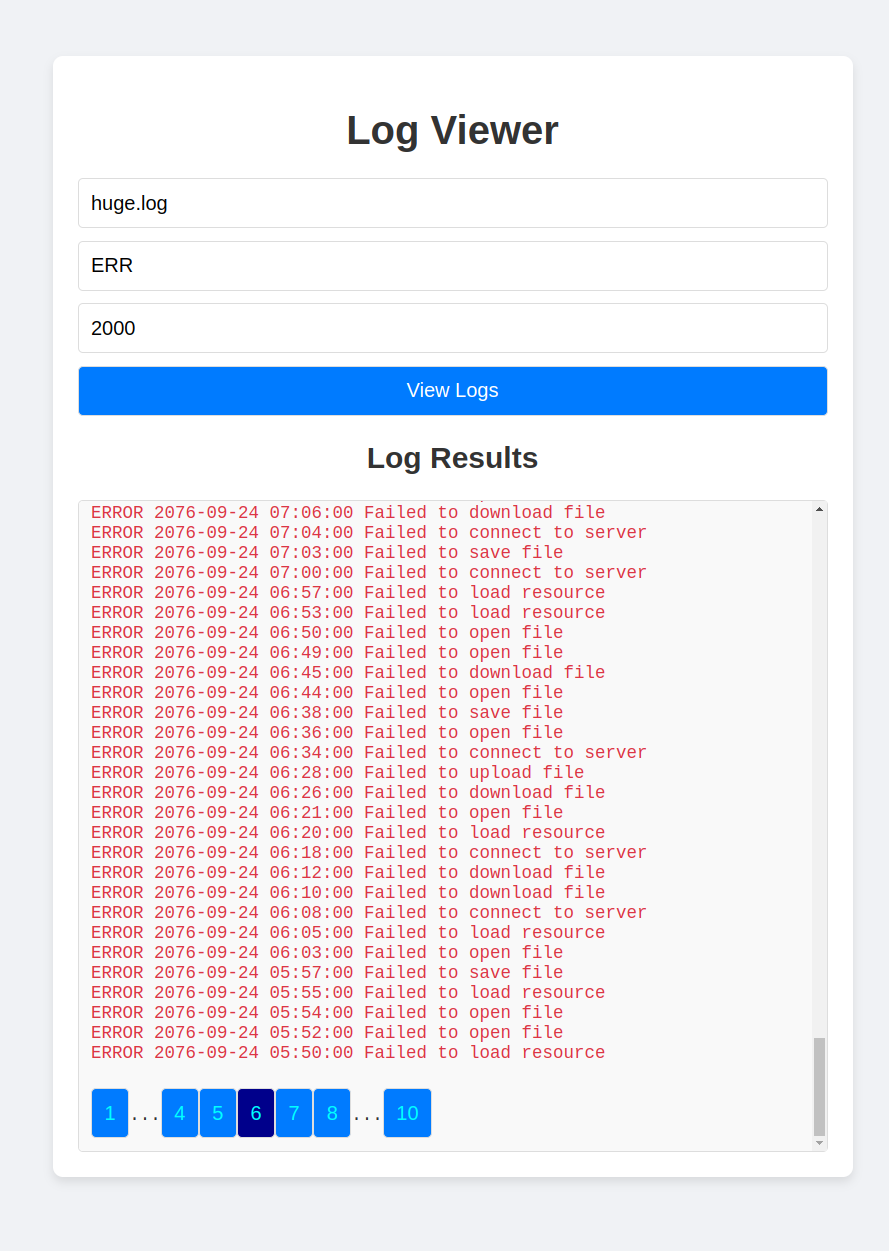
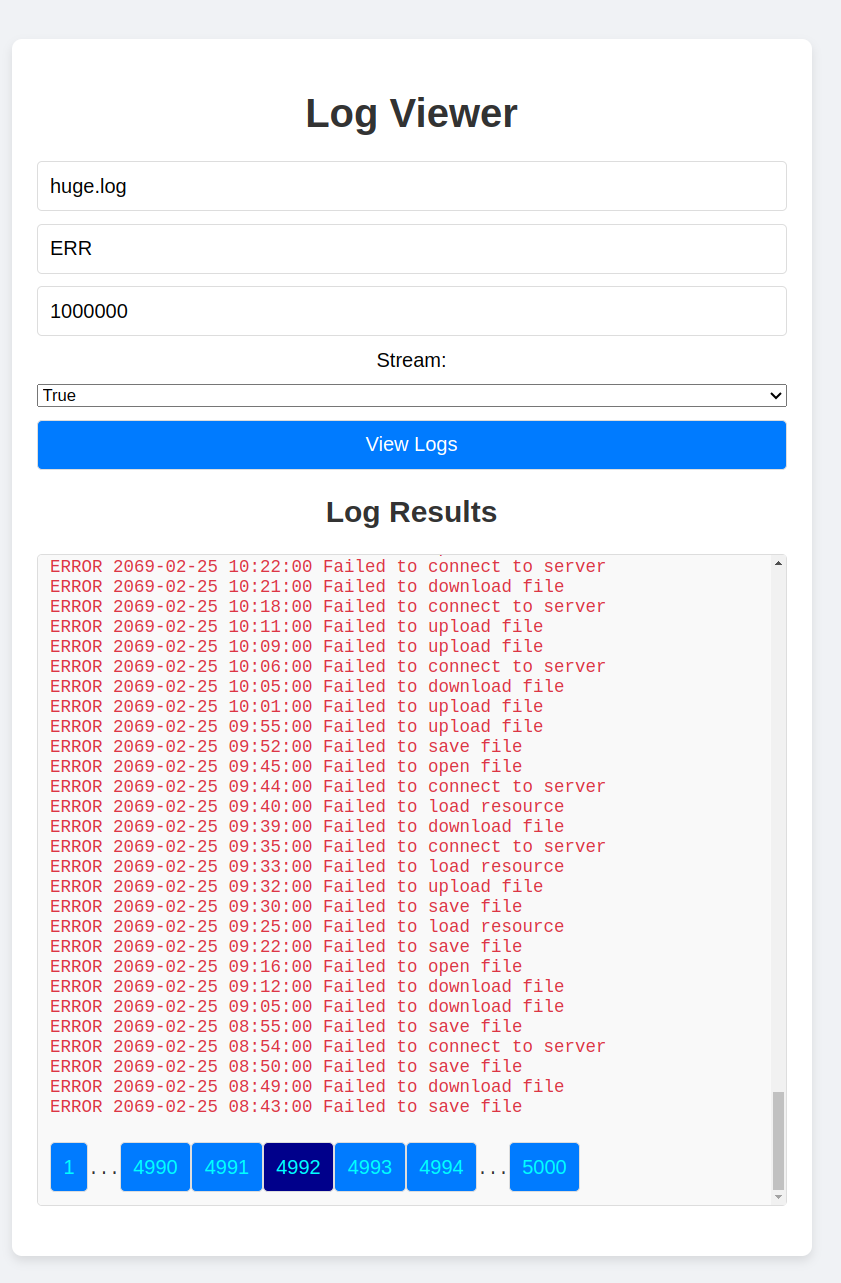
first version readme upgrade (#11)

Changed region(s): [[0.0309, 0.1247, 0.9584, 0.9664], [0.3401, 0.0624, 0.6183, 0.1247]]

diff --git a/README.md b/README.md
@@ -1,7 +1,7 @@
 # Log Viewer Application
 
-## V 0.95
-Single server and front end client working.
+## V 1.00
+Single server and front end client working with stream support and acceptable performance.
 
 ![Example Usage](sample.png)
 
